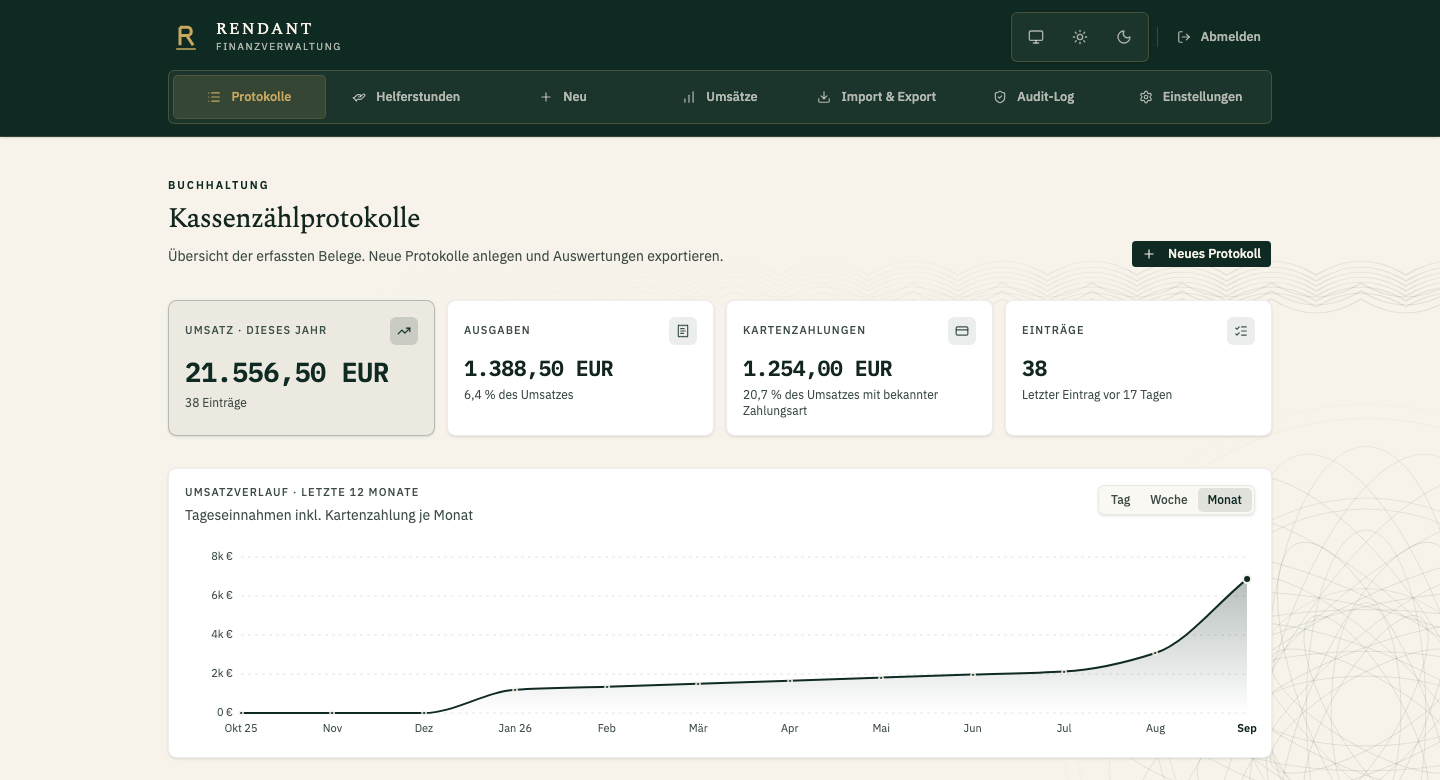
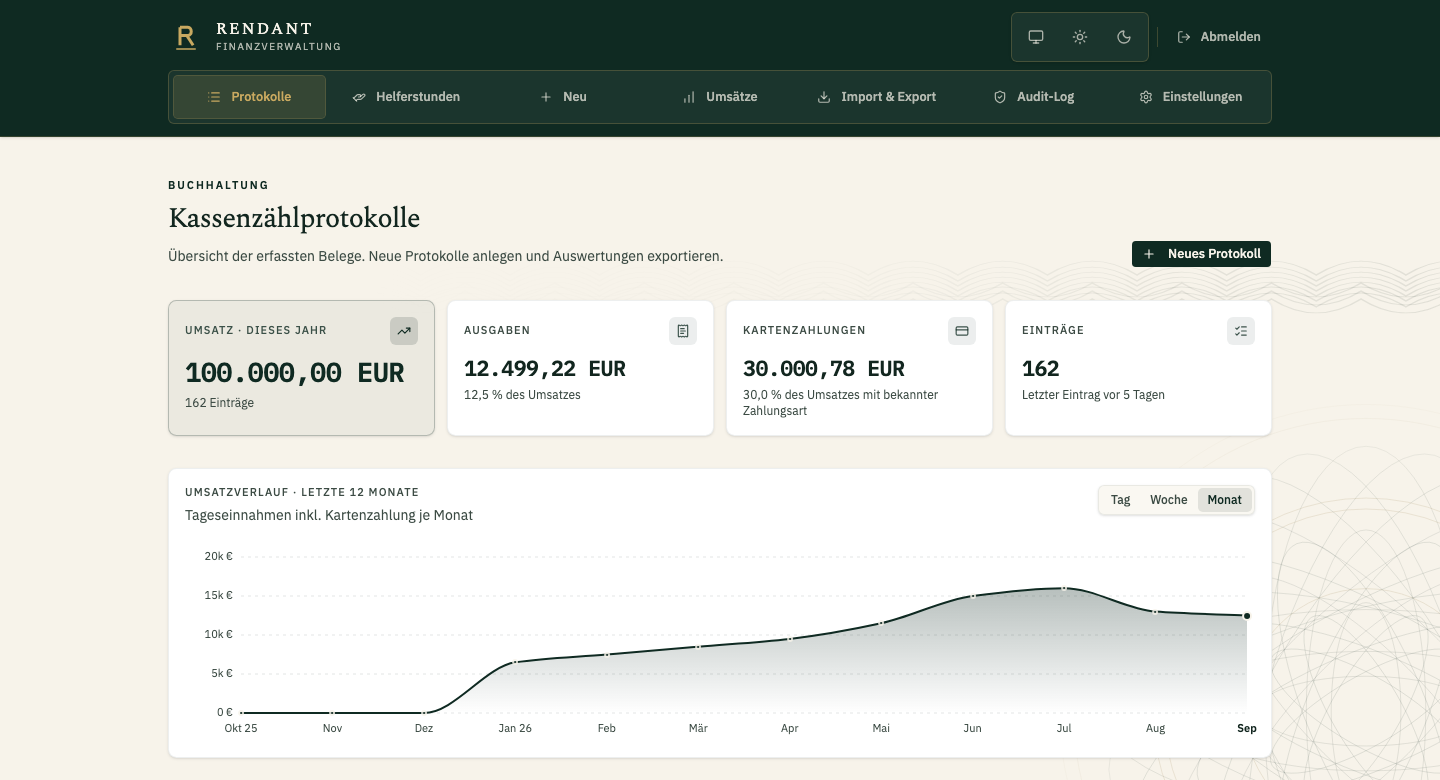
docs: show representative operating volumes in the demo screenshots (#161)

diff --git a/README.md b/README.md
@@ -18,7 +18,8 @@ Die Nutzung erfordert eine gesonderte schriftliche Vereinbarung. Siehe
 ![Rendant: Kassenübersicht und Umsatzverlauf mit Beispieldaten](docs/screenshots/overview.png)
 
 Die Aufnahme zeigt die echte Anwendung in einer lokalen Demo-Instanz.
-Namen, Belege und Beträge sind synthetische Beispieldaten, keine Vereinsdaten.
+Sie umfasst 162 synthetische Kassenprotokolle mit insgesamt 100.000 EUR
+Jahresumsatz. Namen, Belege und Beträge sind Beispieldaten, keine Vereinsdaten.
 
 [Arbeitsbereiche](#arbeitsbereiche) · [Funktionsumfang](#funktionsumfang) ·
 [Lokale Entwicklung](#lokale-entwicklung) · [Lizenz](#lizenz)
